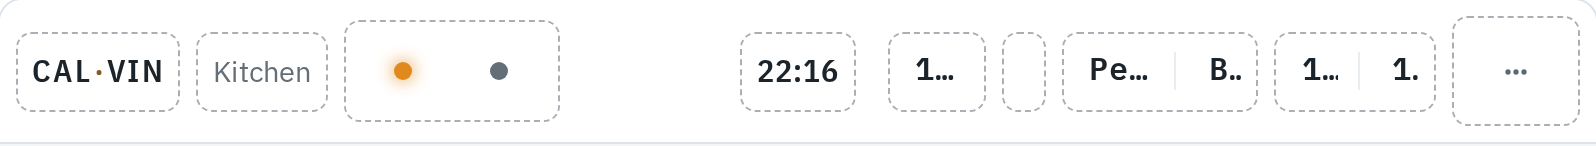
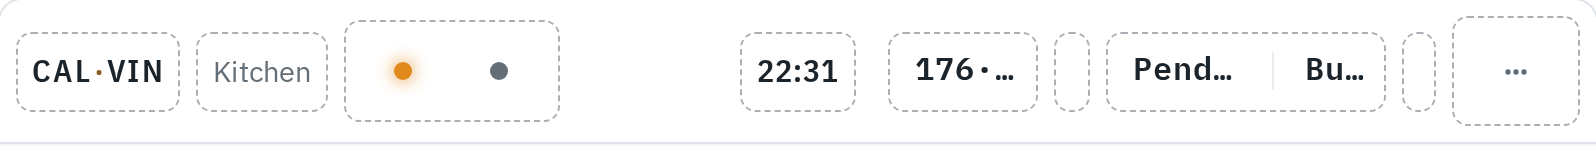
fix(frontend): centre tiles and long room names give way, names go before values across tiles (calvin-r7lb)

diff --git a/frontend/tests/e2e/phone/clock-bar-zones.spec.js b/frontend/tests/e2e/phone/clock-bar-zones.spec.js
@@ -136,10 +136,22 @@ const measure = (page, barSelector) =>
         key: zone.dataset.dropZone,
         box: rectOf(zone),
         chips: chips.map(el => ({ name: name(el), box: rectOf(el) })),
-        leaves: leaves.map(el => ({
-          name: `${name(el)}:${el.textContent.trim()}`,
-          box: rectOf(el),
-        })),
+        // What is actually painted: a leaf clipped by an overflow:hidden
+        // ancestor (a squeezed tile) draws only the part inside it.
+        leaves: leaves
+          .map(el => {
+            const box = rectOf(el);
+            for (let a = el.parentElement; a && a !== zone.parentElement; a = a.parentElement) {
+              if (getComputedStyle(a).overflow === "visible") continue;
+              const c = rectOf(a);
+              box.left = Math.max(box.left, c.left);
+              box.right = Math.min(box.right, c.right);
+              box.top = Math.max(box.top, c.top);
+              box.bottom = Math.min(box.bottom, c.bottom);
+            }
+            return { name: `${name(el)}:${el.textContent.trim()}`, box };
+          })
+          .filter(leaf => leaf.box.right - leaf.box.left >= 1),
       };
     });
     return { bar: rectOf(bar), zones, scrollOverflow: bar.scrollWidth - bar.clientWidth };
@@ -269,19 +281,139 @@ for (const scenario of SCENARIOS) {
   }
 }
 
-// The departure time is what people read: where the owner's two tiles fit, the
-// SL value is whole and only the name gives way (calvin-r7lb).
+// What gives way, in order (calvin-r7lb): every tile name goes before any tile
+// value loses a character; the room name ends in an ellipsis; nothing, the
+// menu included, is ever drawn past the screen edge.
+const cutFlags = page =>
+  page.evaluate(() => {
+    const cells = [...document.querySelectorAll(".clock-bar-horizontal .status__cell")];
+    const cut = el => el.scrollWidth > el.clientWidth + 1;
+    const valueCut = cells
+      .map(cell => cell.querySelector(".status__cell-value"))
+      .filter(el => el && cut(el))
+      .map(el => el.textContent.trim());
+    const nameWhole = cells
+      .map(cell => cell.querySelector(".status__cell-text"))
+      .filter(el => el && el.clientWidth > 0 && !cut(el))
+      .map(el => el.textContent.trim());
+    const nameCut = cells
+      .map(cell => cell.querySelector(".status__cell-text"))
+      .filter(el => el && cut(el)).length;
+    return { valueCut, nameWhole, nameCut };
+  });
+
+const pastScreenEdge = page =>
+  page.evaluate(() => {
+    const width = document.documentElement.clientWidth;
+    const bad = [];
+    const bar = document.querySelector(".clock-bar-horizontal");
+    for (const el of bar.querySelectorAll("*")) {
+      const r = el.getBoundingClientRect();
+      const text = [...el.childNodes].some(n => n.nodeType === 3 && n.textContent.trim());
+      const isMenu = el.classList.contains("bar-action-cluster");
+      if (r.width < 1) continue;
+      if ((text || isMenu) && r.right > width + 0.5) {
+        bad.push(`${el.className || el.tagName} ends at ${Math.round(r.right)} of ${width}`);
+      }
+    }
+    return bad;
+  });
+
+const CENTRE_TILES = {
+  clockBarDesign: {
+    horizontal: {
+      zones: {
+        left: ["logo", "room", "pageDots"],
+        center: ["time", "date", "tiles"],
+        right: ["status"],
+      },
+    },
+  },
+};
+
+const openLive = async (page, { tiles, config = {}, kiosk = null, kioskExtras = null }) => {
+  const api = await installApiMock(page, {
+    overrides: tileOverrides(tiles),
+    ...(kioskExtras ? { kioskExtras } : {}),
+    config: {
+      clockBarMode: "horizontal",
+      clockBarPosition: "top",
+      clockBarShowInKiosk: true,
+      ...config,
+    },
+  });
+  await page.goto(kiosk ? `/?kiosk=${kiosk}` : "/");
+  await expect(page.locator(".clock-bar-horizontal").first()).toBeVisible();
+  await expect(page.locator(".plugin-statusbar-items .status--row").first()).toBeAttached();
+  await page.waitForTimeout(500);
+  return api;
+};
+
+const expectOrderly = async page => {
+  expect(collisions(await measure(page, ".clock-bar-horizontal"))).toEqual([]);
+  expect(await pastScreenEdge(page)).toEqual([]);
+  const { valueCut, nameWhole } = await cutFlags(page);
+  // A value may only be cut once every name is already gone.
+  if (valueCut.length) expect({ valueCut, nameWhole }).toEqual({ valueCut, nameWhole: [] });
+};
+
+test.describe("what gives way in a crowded live bar", () => {
+  for (const [width, label] of [
+    [1280, "four tiles in the Centre zone, 1280 px"],
+    [390, "the owner's tiles in the Centre zone, 390 px"],
+  ]) {
+    test(`${label}: nothing is drawn past the screen, the menu included`, async ({ page }) => {
+      await page.setViewportSize({ width, height: 800 });
+      await openLive(page, {
+        tiles: width === 1280 ? ALL_TILES : ALL_TILES.slice(0, 2),
+        config: CENTRE_TILES,
+      });
+      await expectOrderly(page);
+    });
+  }
+
+  for (const [width, count] of [
+    [590, 2],
+    [1400, 4],
+  ]) {
+    test(`${count} tiles at ${width} px: every name goes before any value`, async ({ page }) => {
+      await page.setViewportSize({ width, height: 800 });
+      await openLive(page, { tiles: ALL_TILES.slice(0, count) });
+      await expectOrderly(page);
+    });
+  }
+
+  test("a 75-character room name ends in an ellipsis at 800 px", async ({ page }) => {
+    await page.setViewportSize({ width: 800, height: 480 });
+    const room = "The long hall at the far end of the house past the garden gate and the old barn";
+    await openLive(page, {
+      tiles: ALL_TILES.slice(0, 2),
+      kiosk: "hallway",
+      kioskExtras: { hallway: { overrides: { displayName: room } } },
+    });
+    const roomCut = await page
+      .locator(".clock-bar-horizontal .clock-bar-room")
+      .evaluate(
+        el =>
+          el.scrollWidth > el.clientWidth + 1 ||
+          el.children[0]?.scrollWidth > el.children[0]?.clientWidth + 1
+      );
+    expect(roomCut).toBe(true);
+    await expectOrderly(page);
+  });
+});
+
+// The departure time is what people read: where the owner's two tiles are
+// squeezed, the name gives way and the SL value stays whole. (On the old code
+// nothing was cut at all, so this fails there.)
 test.describe("owner tiles keep their values whole", () => {
   test.use({ viewport: { width: 1280, height: 800 } });
 
   test("editor preview, top/bottom bar, landscape", async ({ page }) => {
     await installApiMock(page, { overrides: tileOverrides(ALL_TILES.slice(0, 2)) });
     const editor = await openEditor(page, { shape: "horizontal", orientation: "landscape" });
-    const cut = await editor
-      .locator(".clock-bar-horizontal .status__cell-value")
-      .evaluateAll(els =>
-        els.filter(el => el.scrollWidth > el.clientWidth + 1).map(el => el.textContent.trim())
-      );
-    expect(cut).toEqual([]);
+    const flags = await cutFlags(page);
+    expect(flags.nameCut).toBeGreaterThan(0);
+    expect(flags.valueCut).toEqual([]);
   });
 });

diff --git a/frontend/src/components/plugins/renderers/StatusRenderer.vue b/frontend/src/components/plugins/renderers/StatusRenderer.vue
@@ -20,7 +20,7 @@
   </ul>
 
   <!-- row: inline instrument strip with hairline dividers (statusbar default) -->
-  <span v-else-if="layout === 'row'" class="status status--row">
+  <span v-else-if="layout === 'row'" ref="rowEl" class="status status--row">
     <span v-for="(item, i) in items" :key="i" class="status__cell" :class="readoutClass(item)">
       <span v-if="isAlert(item)" class="calvin-plugin-lamp" />
       <span v-if="iconFor(item)" class="status__icon">{{ iconFor(item) }}</span>
@@ -66,7 +66,7 @@
 //   item: { icon, label, value, unit, status } — each key also accepts a
 //         `<key>_path` variant resolved against the item, plus `value_format`.
 //         status values: "ok" (renders monochrome) | "warn" | "error"
-import { computed } from "vue";
+import { computed, nextTick, onBeforeUnmount, onMounted, onUpdated, ref } from "vue";
 import { resolvePath } from "../../../utils/jsonPath";
 import { applyFormat } from "../../../utils/formatters";
 
@@ -121,6 +121,59 @@ function isAlert(item) {
   return s === "warn" || s === "error";
 }
 
+// Names before values, across every tile on a bar (calvin-r7lb). Flex shrinks
+// each item in proportion to its shrink factor times its width, so a tile whose
+// factor is (width of its names / width of the tile) gives up exactly its names'
+// worth first. Measured from the natural (unclipped) content, so it does not
+// move while the tile is being squeezed.
+const rowEl = ref(null);
+let observer = null;
+
+function naturalWidth(el) {
+  return el ? el.scrollWidth : 0;
+}
+
+function applyShrink() {
+  const row = rowEl.value;
+  if (!row) return;
+  let names = 0;
+  let total = 0;
+  for (const cell of row.querySelectorAll(".status__cell")) {
+    const style = getComputedStyle(cell);
+    const chrome =
+      parseFloat(style.paddingLeft) +
+      parseFloat(style.paddingRight) +
+      parseFloat(style.borderLeftWidth);
+    const label = cell.querySelector(".status__cell-label");
+    const text = cell.querySelector(".status__cell-text");
+    const value = cell.querySelector(".status__cell-value");
+    const labelWidth = text ? naturalWidth(text) + (label.clientWidth - text.clientWidth) : 0;
+    const gap = label && value ? parseFloat(style.columnGap) || 0 : 0;
+    names += labelWidth;
+    total += chrome + labelWidth + gap + naturalWidth(value);
+  }
+  // Scaled to 1-100: only the ratio between tiles matters, but flex-shrink
+  // factors that sum to less than 1 make the browser squeeze only part of the
+  // overflow.
+  const factor = total > 0 ? Math.max((names / total) * 100, 1).toFixed(2) : "1";
+  if (row.style.getPropertyValue("--tile-shrink") !== factor) {
+    row.style.setProperty("--tile-shrink", factor);
+    // In the editor a tile is a chip that is itself the flex item.
+    row.closest(".clock-bar-chip")?.style.setProperty("--tile-shrink", factor);
+  }
+}
+
+onMounted(() => {
+  applyShrink();
+  if (typeof ResizeObserver !== "undefined" && rowEl.value) {
+    observer = new ResizeObserver(applyShrink);
+    observer.observe(rowEl.value);
+  }
+  document.fonts?.ready?.then(applyShrink);
+});
+onUpdated(() => nextTick(applyShrink));
+onBeforeUnmount(() => observer?.disconnect());
+
 function readoutClass(item) {
   const s = statusFor(item);
   if (s === "warn") return "calvin-plugin-readout--warn";
@@ -144,6 +197,7 @@ function readoutClass(item) {
   align-items: center;
   min-width: 0;
   max-width: 100%;
+  flex-shrink: var(--tile-shrink, 1);
 }
 
 /* A row in a bar gives way before it overlaps its neighbour: every cell can

diff --git a/frontend/src/components/PluginStatusbarItems.vue b/frontend/src/components/PluginStatusbarItems.vue
@@ -4,12 +4,14 @@
     :class="[`orientation-${orientation}`, { ghost }]"
     :style="sizeStyle"
   >
-    <SchemaStatusbarItem
-      v-for="service in schemaServices"
-      :key="`${service.id}:${retryKey}`"
-      :service-id="service.id"
-      :schema="service.statusbar_schema"
-    />
+    <div class="plugin-statusbar-items__row">
+      <SchemaStatusbarItem
+        v-for="service in schemaServices"
+        :key="`${service.id}:${retryKey}`"
+        :service-id="service.id"
+        :schema="service.statusbar_schema"
+      />
+    </div>
   </div>
 </template>
 
@@ -136,13 +138,27 @@ onMounted(() => {
   grid-auto-flow: column;
   grid-auto-columns: minmax(0, max-content);
   align-items: center;
-  /* Tiles in a row never run together ("176·9'YR 2°"). */
-  column-gap: var(--gap-inline);
   /* The tiles are the part of a bar that gives way: they shrink (their names
      truncate) instead of running over the zone beside them (calvin-r7lb). */
   min-width: 0;
   flex: 0 1 auto;
   overflow: hidden;
+}
+
+/* The tiles share one flex row, so every tile's shrink is weighted by the width
+   of its names (StatusRenderer): names go before any value, across tiles. */
+.plugin-statusbar-items__row {
+  display: flex;
+  align-items: center;
+  /* Tiles in a row never run together ("176·9'YR 2°"). */
+  column-gap: var(--gap-inline);
+  min-width: 0;
+}
+
+.plugin-statusbar-items.orientation-vertical .plugin-statusbar-items__row {
+  flex-direction: column;
+  gap: 0.5rem;
+  column-gap: 0.5rem;
 }
 
 .plugin-statusbar-items.orientation-vertical {

diff --git a/frontend/src/components/ClockBarPart.vue b/frontend/src/components/ClockBarPart.vue
@@ -16,9 +16,9 @@
       :size-px="renderedSizePx"
     />
 
-    <span v-else-if="partId === 'room'" class="clock-bar-room" :style="roomStyle">{{
-      roomLabel
-    }}</span>
+    <span v-else-if="partId === 'room'" class="clock-bar-room" :style="roomStyle"
+      ><span class="clock-bar-room__text">{{ roomLabel }}</span></span
+    >
 
     <ScreenDots
       v-else-if="partId === 'pageDots'"
@@ -172,15 +172,22 @@ const dotsActiveId = computed(() => (props.sample ? SAMPLE_SCREENS[0].id : props
   line-height: 1.1;
 }
 
+/* A grid of one minmax(0, max-content) column: the room is as wide as its name
+   when there is room, but adds nothing to the zone's floor, so a long name ends
+   in an ellipsis instead of pushing the zone into its neighbour (calvin-r7lb). */
 .clock-bar-room {
-  display: block;
+  display: grid;
+  grid-template-columns: minmax(0, max-content);
   min-width: 0;
-  overflow: hidden;
-  text-overflow: ellipsis;
-  white-space: nowrap;
   font-family: var(--font-ui);
   color: var(--ink-3);
   font-size: var(--text-body);
+}
+
+.clock-bar-room__text {
+  overflow: hidden;
+  text-overflow: ellipsis;
+  white-space: nowrap;
 }
 
 .compact-time {

diff --git a/frontend/src/components/ClockBarHorizontal.vue b/frontend/src/components/ClockBarHorizontal.vue
@@ -384,11 +384,12 @@ onMounted(() => {
    because everything in them that can be wide can also truncate. */
 
 /* The centred clock keeps its full width: the side groups yield instead of
-   the time being squeezed under the screen dots (CLV-91). */
+   the time being squeezed under the screen dots (CLV-91). Plugin tiles placed
+   here give way like those in the side zones, down to the time and date. */
 .clock-bar-content {
-  flex: 0 0 auto;
+  flex: 0 1 auto;
   justify-content: center;
   gap: var(--gap-4);
-  min-width: 0;
+  min-width: min-content;
 }
 </style>

diff --git a/frontend/src/components/ClockBarChip.vue b/frontend/src/components/ClockBarChip.vue
@@ -64,7 +64,7 @@ defineEmits(["select", "move"]);
 .clock-bar-chip[data-part-id^="tile:"] {
   min-width: 0;
   max-width: 100%;
-  flex: 0 1 auto;
+  flex: 0 var(--tile-shrink, 1) auto;
 }
 
 .clock-bar-chip.is-selected {
